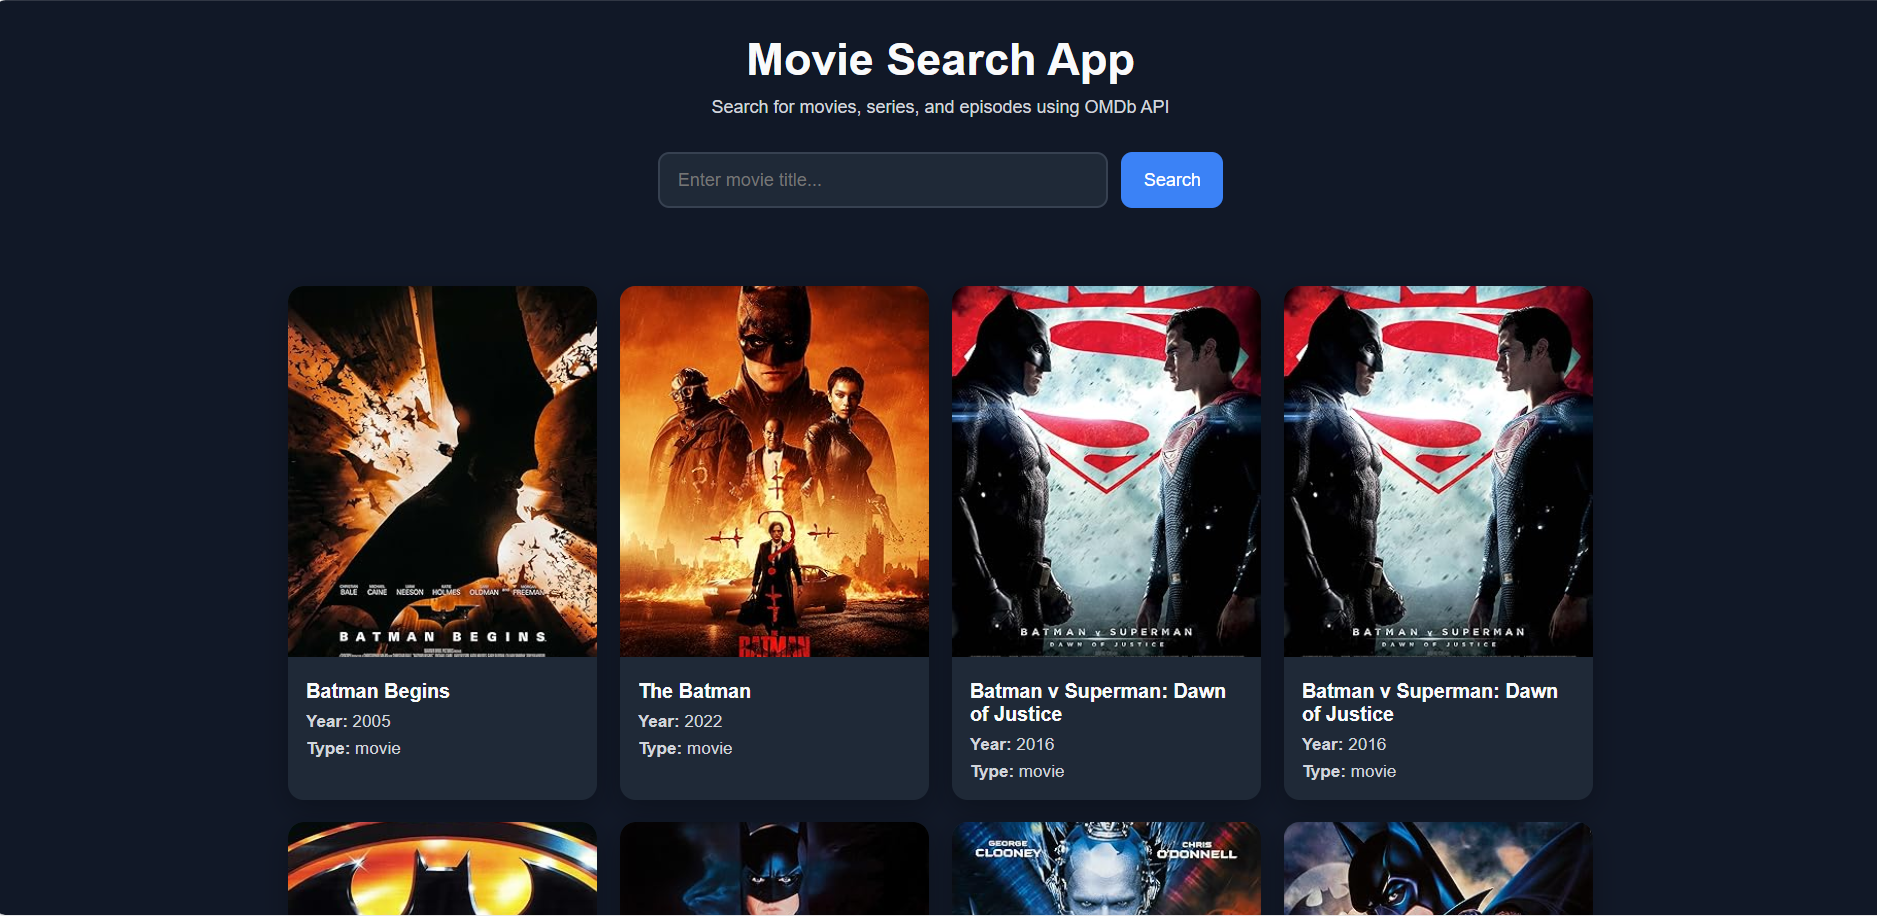
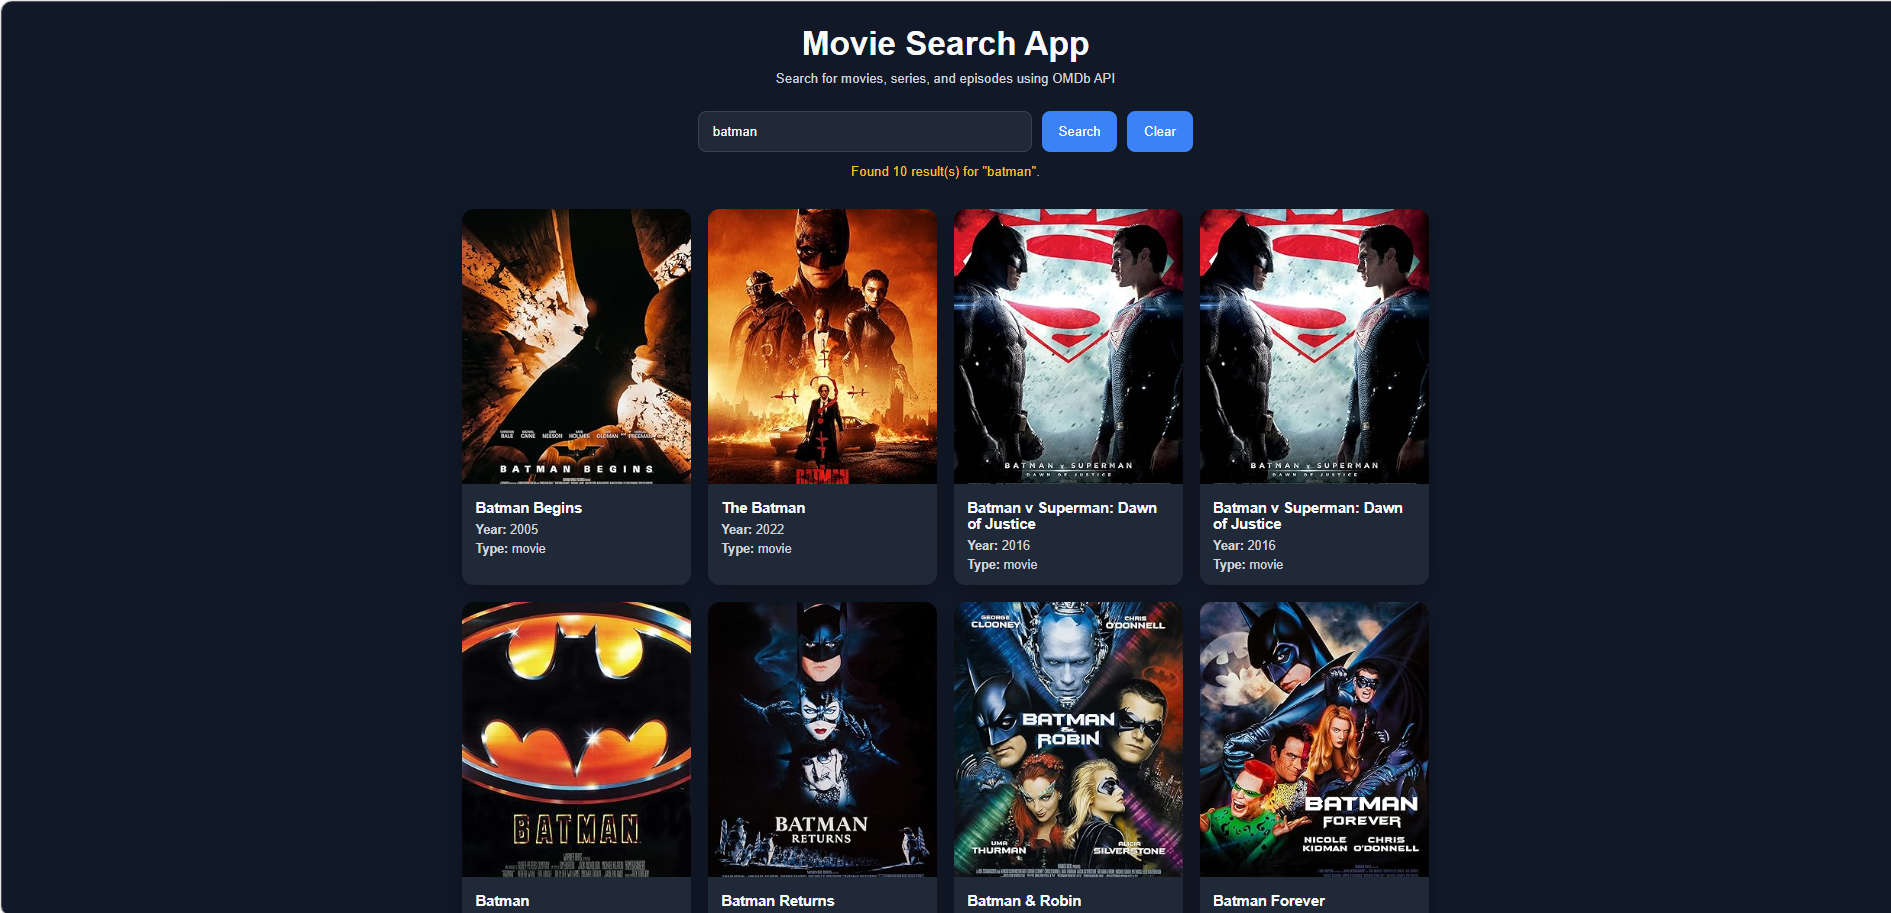
docs: replace README and screenshot for movie search app

diff --git a/README.md b/README.md
@@ -36,3 +36,12 @@ This project was created to practice working with APIs, asynchronous JavaScript,
 ## Screenshot
 
 ![Movie Search App Screenshot](images/screenshot.png)
+
+## Updates
+
+### V1.1
+
+- Add clear results button to movie search app
+- Improve loading state and disable search button during requests
+- Replace external placeholder with local no-image fallback
+- Polish messages and UI states for better UX
